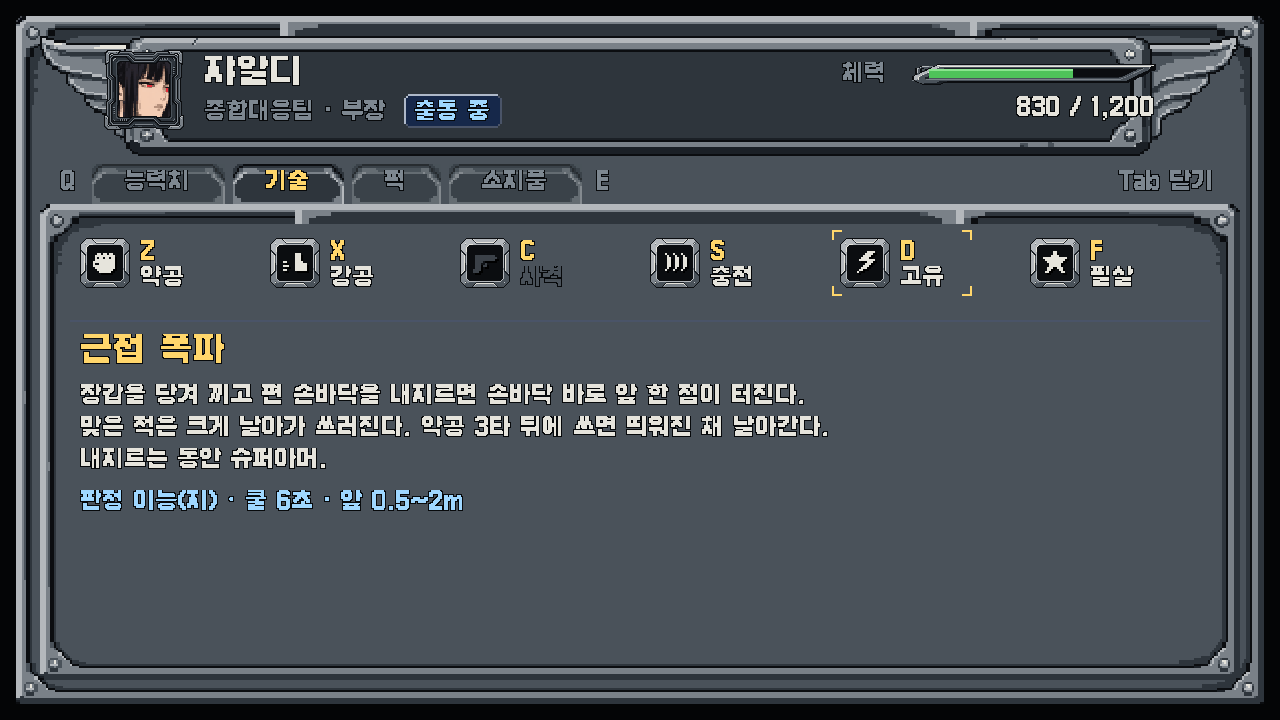
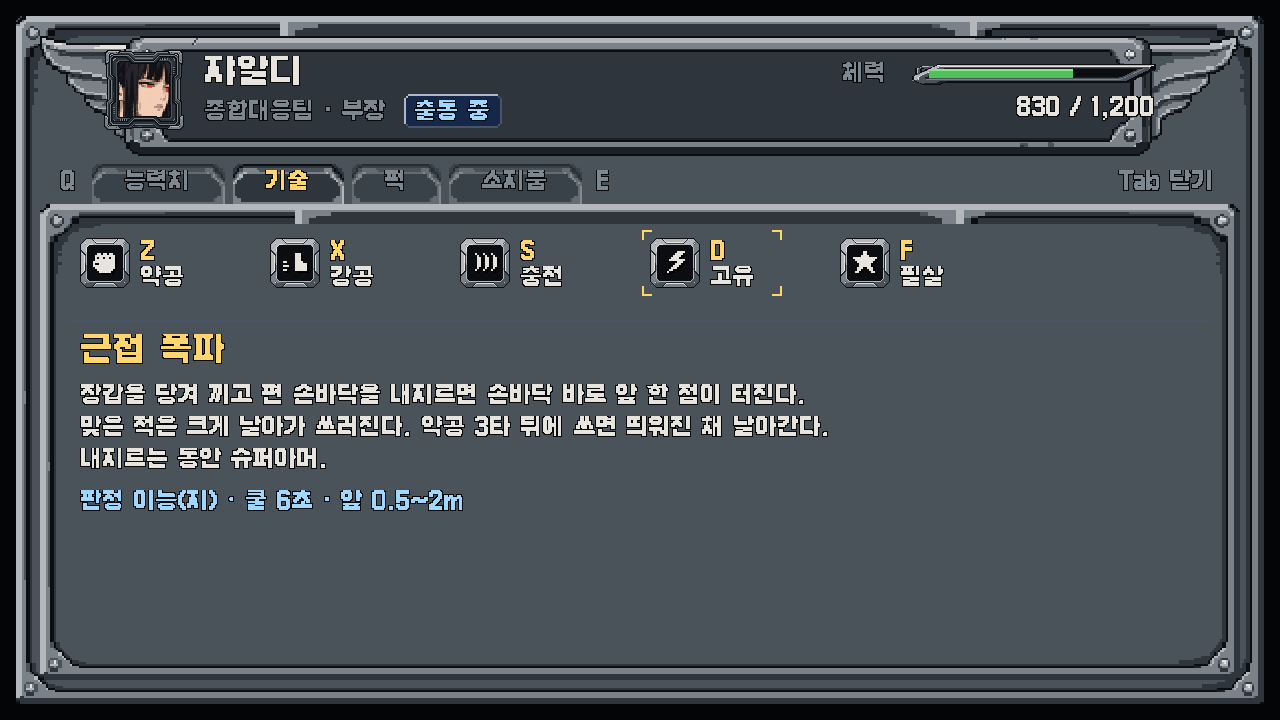
통합창 시안 3: 사격 없는 인물은 사격 칸 없음(HUD와 같게)
Claude-Session: https://claude.ai/code/session_01MHVZo4WvLZhQjig6bwQEXd

diff --git a/tools/preview/charWindowPreview.ts b/tools/preview/charWindowPreview.ts
@@ -27,10 +27,10 @@ const load = (src: string) => new Promise<HTMLImageElement>((r) => { const im = 
     ],
     skills: [
       { key: 'Z', label: '약공', icon: 'punch', name: '약공' }, { key: 'X', label: '강공', icon: 'kick', name: '강공' },
-      { key: 'C', label: '사격', icon: 'gun', name: '사격', off: true }, { key: 'S', label: '충전', icon: 'wave', name: '구역 정리' },
+      { key: 'S', label: '충전', icon: 'wave', name: '구역 정리' },
       { key: 'D', label: '고유', icon: 'bolt', name: '근접 폭파' }, { key: 'F', label: '필살', icon: 'star', name: '보면 알아' },
     ],
-    pick: { skill: 4, desc: ['장갑을 당겨 끼고 편 손바닥을 내지르면 손바닥 바로 앞 한 점이 터진다.', '맞은 적은 크게 날아가 쓰러진다. 약공 3타 뒤에 쓰면 띄워진 채 날아간다.', '내지르는 동안 슈퍼아머.'], nums: '판정 이능(지) · 쿨 6초 · 앞 0.5~2m' },
+    pick: { skill: 3, desc: ['장갑을 당겨 끼고 편 손바닥을 내지르면 손바닥 바로 앞 한 점이 터진다.', '맞은 적은 크게 날아가 쓰러진다. 약공 3타 뒤에 쓰면 띄워진 채 날아간다.', '내지르는 동안 슈퍼아머.'], nums: '판정 이능(지) · 쿨 6초 · 앞 0.5~2m' },
     perks: [
       { name: '3단 점프', effect: '공중에서 한 번 더 뛴다', badge: jump },
       { name: '탄 +1', effect: '사격 한 번에 탄 하나 더', badge: shot },
